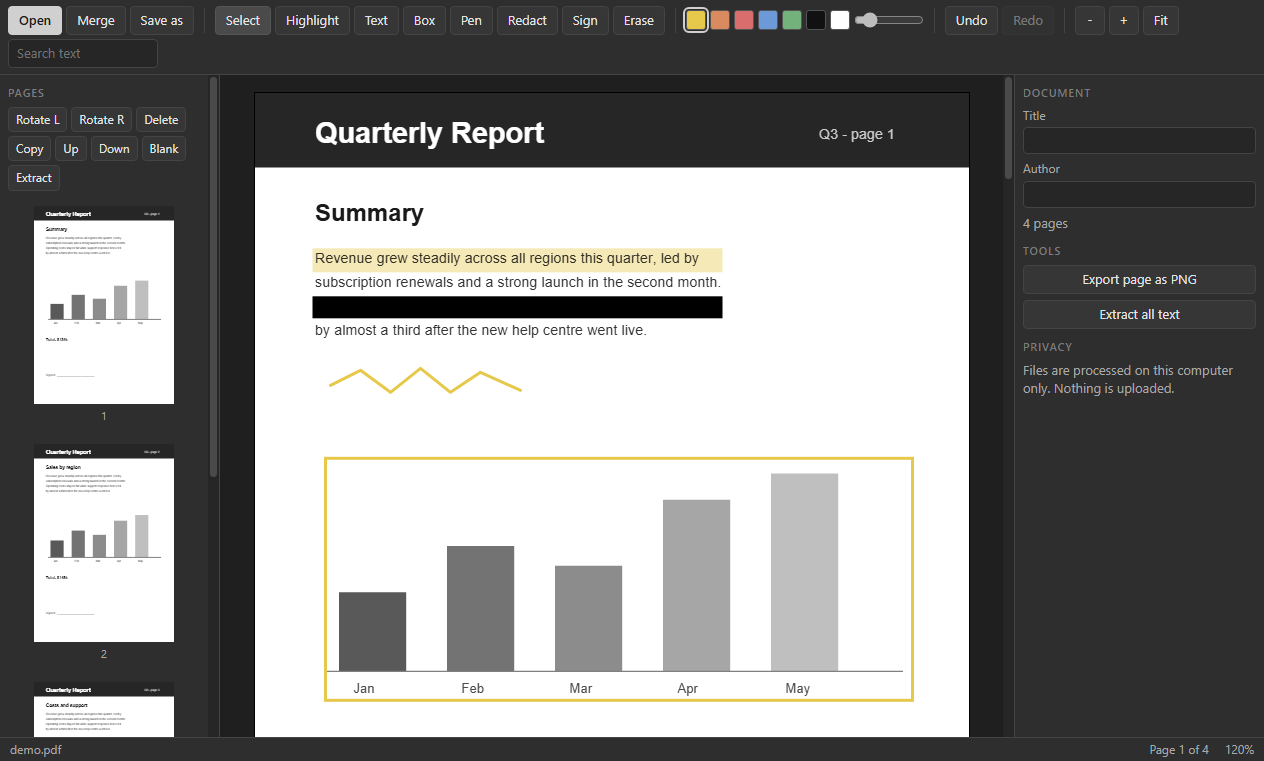
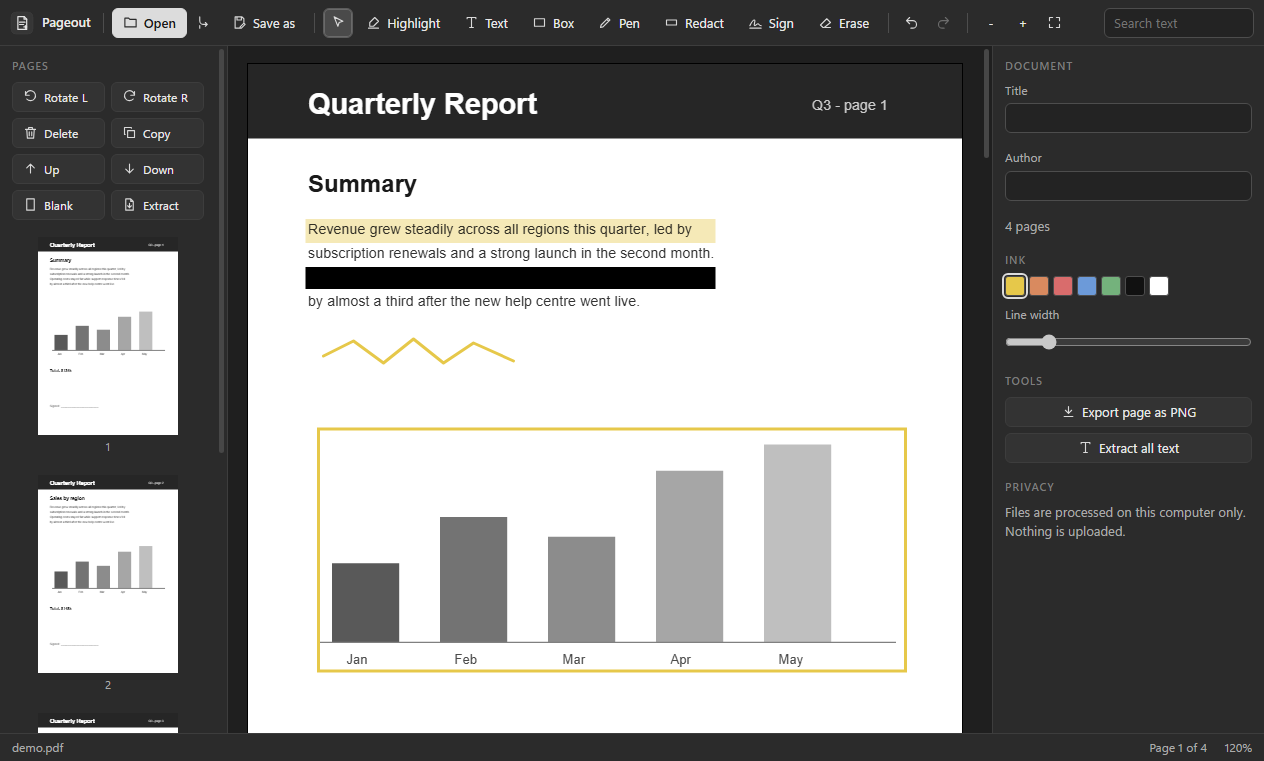
Pageout 1.0.2: refreshed interface
Refreshed interface: line icons on every toolbar button, the app mark in the top bar, consistent control sizes and spacing, tidier side panels, and a toolbar that adapts to smaller windows. Also includes layout fixes and a fuller guide on the project page.

diff --git a/renderer/lookout.css b/renderer/lookout.css
@@ -1,62 +1,119 @@
-/* Lookout gray UI kit: flat, no glow, no gradients, no hue. */
+/* Lookout gray UI kit v2: flat, calm, no hue. Shared by every Lookout app. */
 :root{
-  --bg:#262626; --bg-2:#2e2e2e; --bg-3:#363636; --line:#444; --line-2:#555;
-  --text:#e4e4e4; --text-2:#a8a8a8; --text-3:#7c7c7c;
-  --accent:#d0d0d0; --accent-ink:#1c1c1c; --focus:#9a9a9a;
-  --radius:4px; --font:"Segoe UI",system-ui,-apple-system,sans-serif; --mono:Consolas,"Cascadia Mono",monospace;
+  --bg:#232323; --bg-2:#2b2b2b; --bg-3:#333333; --bg-4:#3b3b3b; --stage:#1c1c1c;
+  --line:#3d3d3d; --line-2:#4d4d4d; --line-3:#5c5c5c;
+  --text:#e8e8e8; --text-2:#ababab; --text-3:#7d7d7d;
+  --accent:#dcdcdc; --accent-ink:#1b1b1b; --focus:#a0a0a0;
+  --radius:6px; --h:30px;
+  --font:"Segoe UI Variable Text","Segoe UI",system-ui,-apple-system,sans-serif; --mono:Consolas,"Cascadia Mono",monospace;
 }
 *{box-sizing:border-box;margin:0;padding:0}
 html,body{height:100%;background:var(--bg);color:var(--text);font:13px/1.45 var(--font);overflow:hidden;user-select:none;-webkit-font-smoothing:antialiased}
 button,input,select,textarea{font:inherit;color:inherit}
 .app{display:grid;grid-template-rows:auto 1fr auto;height:100vh}
-.toolbar{display:flex;align-items:center;gap:4px;padding:6px 8px;background:var(--bg-2);border-bottom:1px solid var(--line);flex-wrap:wrap}
-.toolbar .sep{width:1px;align-self:stretch;background:var(--line);margin:2px 6px}
-.toolbar .grow{flex:1}
-.btn{background:var(--bg-3);border:1px solid var(--line);border-radius:var(--radius);padding:4px 10px;cursor:pointer;white-space:nowrap}
-.btn:hover{background:#404040;border-color:var(--line-2)}
+
+/* ---------- toolbar ---------- */
+.toolbar{display:flex;align-items:center;gap:2px;padding:7px 10px;min-height:46px;background:var(--bg-2);border-bottom:1px solid var(--line);flex-wrap:nowrap;overflow-x:auto;overflow-y:hidden;scrollbar-width:none}
+.toolbar::-webkit-scrollbar{height:0}
+.toolbar>*{flex-shrink:0}
+.toolbar .sep{width:1px;height:20px;align-self:center;background:var(--line-2);margin:0 6px}
+.toolbar .grow{flex:1 1 auto;min-width:8px}
+.toolbar input[type=text],.toolbar input[type=search]{width:170px}
+.brand{display:flex;align-items:center;gap:8px;padding-right:6px;margin-right:4px;font-weight:600;font-size:13px;color:var(--text)}
+.brand img{width:24px;height:24px;border-radius:6px;display:block}
+.brand+.sep{margin-left:0}
+
+/* ---------- buttons ---------- */
+.btn{display:inline-flex;align-items:center;justify-content:center;gap:6px;height:var(--h);padding:0 10px;background:var(--bg-3);border:1px solid var(--line);border-radius:var(--radius);cursor:pointer;white-space:nowrap;line-height:1;transition:background .08s,border-color .08s}
+.btn:hover{background:var(--bg-4);border-color:var(--line-2)}
 .btn:active{background:#2a2a2a}
-.btn:focus-visible,input:focus-visible,select:focus-visible,textarea:focus-visible,[tabindex]:focus-visible{outline:1px solid var(--focus);outline-offset:1px}
+.btn:focus-visible,input:focus-visible,select:focus-visible,textarea:focus-visible,[tabindex]:focus-visible{outline:2px solid var(--focus);outline-offset:1px}
 .btn.primary{background:var(--accent);color:var(--accent-ink);border-color:var(--accent);font-weight:600}
-.btn.primary:hover{background:#e0e0e0}
-.btn.on{background:#4a4a4a;border-color:var(--line-2)}
-.btn[disabled]{opacity:.4;pointer-events:none}
-.btn.icon{padding:4px 8px;min-width:30px;text-align:center}
-input[type=text],input[type=number],input[type=search],select,textarea{background:var(--bg);border:1px solid var(--line);border-radius:var(--radius);padding:4px 8px;user-select:text}
-input[type=range]{accent-color:#bdbdbd}
-input[type=color]{border:1px solid var(--line);background:var(--bg);width:28px;height:24px;padding:1px;border-radius:var(--radius)}
-label.field{display:flex;flex-direction:column;gap:3px;color:var(--text-2);font-size:12px}
-.main{display:flex;min-height:0}
-.sidebar{width:220px;background:var(--bg-2);border-right:1px solid var(--line);overflow:auto;padding:8px;flex-shrink:0}
-.sidebar.right{border-right:0;border-left:1px solid var(--line);width:250px}
-.sidebar h3,.panel-title{font-size:11px;text-transform:uppercase;letter-spacing:.08em;color:var(--text-3);margin:10px 0 6px;font-weight:600}
+.btn.primary:hover{background:#ececec;border-color:#ececec}
+.btn.on{background:#4a4a4a;border-color:var(--line-3);box-shadow:inset 0 0 0 1px #6a6a6a}
+.btn[disabled]{opacity:.38;pointer-events:none}
+.btn.icon{padding:0;width:var(--h);min-width:var(--h)}
+.btn .ic{width:15px;height:15px;flex-shrink:0;display:block;opacity:.92}
+.toolbar .btn:not(.primary):not(.on){background:transparent;border-color:transparent}
+.toolbar .btn:not(.primary):not(.on):hover{background:var(--bg-4);border-color:var(--line-2)}
+
+.toolbar.c1 .btn.minor:not(.primary):has(> svg.ic),.toolbar.c2 .btn:not(.primary):has(> svg.ic),.toolbar.c3 .btn:has(> svg.ic){font-size:0;gap:0;width:var(--h);padding:0}
+.toolbar.c2 .brand span{display:none}
+.toolbar.c2 input[type=text],.toolbar.c2 input[type=search]{width:120px}
+
+/* ---------- fields ---------- */
+input[type=text],input[type=number],input[type=search],input[type=date],select,textarea{background:var(--bg);border:1px solid var(--line-2);border-radius:var(--radius);padding:0 9px;height:var(--h);user-select:text;min-width:0}
+textarea{height:auto;padding:7px 9px;resize:vertical;line-height:1.45}
+select{padding-right:6px;cursor:pointer}
+input:hover,select:hover,textarea:hover{border-color:var(--line-3)}
+input[type=range]{accent-color:#c8c8c8;height:var(--h)}
+input[type=checkbox]{accent-color:#c8c8c8;width:15px;height:15px;cursor:pointer}
+input[type=color]{border:1px solid var(--line-2);background:var(--bg);width:30px;height:var(--h);padding:2px;border-radius:var(--radius)}
+label.field{display:flex;flex-direction:column;gap:4px;color:var(--text-2);font-size:12px}
+label.field>input,label.field>select,label.field>textarea{width:100%;color:var(--text);font-size:13px}
+
+/* ---------- layout ---------- */
+.main{display:flex;min-height:0;min-width:0}
+.sidebar{width:228px;background:var(--bg-2);border-right:1px solid var(--line);overflow:auto;padding:10px 12px 14px;flex-shrink:0}
+.sidebar.right{border-right:0;border-left:1px solid var(--line);width:272px}
+.sidebar h3,.panel-title{font-size:11px;text-transform:uppercase;letter-spacing:.08em;color:var(--text-3);margin:16px 0 8px;font-weight:600}
 .sidebar h3:first-child{margin-top:2px}
-.stage{flex:1;min-width:0;min-height:0;position:relative;background:#1f1f1f;overflow:auto}
-.status{display:flex;gap:16px;align-items:center;padding:3px 10px;background:var(--bg-2);border-top:1px solid var(--line);color:var(--text-2);font-size:12px}
+.sidebar input[type=text],.sidebar input[type=search],.sidebar select,.sidebar textarea{width:100%}
+.sidebar .row{flex-wrap:wrap}
+.sidebar .row>.btn{flex:1 1 auto}
+.sidebar .row>label.field{flex:1 1 0;min-width:0}
+.sidebar label.field{margin-bottom:10px}
+.sidebar .btn{width:auto}
+.sidebar>.btn{width:100%;margin-bottom:6px}
+.stage{flex:1;min-width:0;min-height:0;position:relative;background:var(--stage);overflow:auto}
+.status{display:flex;gap:18px;align-items:center;height:28px;padding:0 12px;background:var(--bg-2);border-top:1px solid var(--line);color:var(--text-2);font-size:12px;white-space:nowrap;overflow:hidden}
 .status .grow{flex:1}
 .list{display:flex;flex-direction:column;gap:2px}
-.list .item{padding:5px 8px;border-radius:var(--radius);cursor:pointer;border:1px solid transparent;display:flex;gap:6px;align-items:center}
+.list .item{padding:6px 8px;border-radius:var(--radius);cursor:pointer;border:1px solid transparent;display:flex;gap:6px;align-items:center;min-height:30px}
 .list .item:hover{background:var(--bg-3)}
-.list .item.sel{background:#444;border-color:var(--line-2)}
+.list .item.sel{background:var(--bg-4);border-color:var(--line-2)}
 .row{display:flex;gap:6px;align-items:center}
+.grow{flex:1 1 auto;min-width:0}
+.brow{display:grid;grid-template-columns:1fr 1fr;gap:6px;margin-bottom:6px}
+.brow>.btn{justify-content:flex-start}
+.frow{display:flex;align-items:center;gap:8px;margin-bottom:8px;color:var(--text-2)}
+.frow>input[type=text],.frow>input[type=number]{flex:1;color:var(--text)}
+.frow>span:first-child{min-width:44px}
+.frow>select{flex:1;min-width:0}
+.sidebar input[type=range]{width:100%}
+.sidebar .swatches{margin-bottom:10px}
+.list .item .btn{height:24px!important;width:26px!important;padding:0!important;font-size:0!important;gap:0;background:transparent;border-color:transparent;opacity:.55}
+.list .item:hover .btn,.list .item.sel .btn{opacity:1}
+.list .item .btn:hover{background:var(--bg-4);border-color:var(--line-2)}
 .col{display:flex;flex-direction:column;gap:6px}
 .muted{color:var(--text-2)}
-.empty{position:absolute;inset:0;display:flex;flex-direction:column;align-items:center;justify-content:center;gap:10px;color:var(--text-3);text-align:center;padding:20px}
-.empty .big{font-size:18px;color:var(--text-2)}
-.modal-back{position:fixed;inset:0;background:rgba(0,0,0,.55);display:flex;align-items:center;justify-content:center;z-index:50}
-.modal{background:var(--bg-2);border:1px solid var(--line-2);border-radius:6px;min-width:340px;max-width:80vw;max-height:85vh;overflow:auto;padding:16px;display:flex;flex-direction:column;gap:12px}
-.modal h2{font-size:15px;font-weight:600}
-.toast{position:fixed;left:50%;bottom:34px;transform:translateX(-50%);background:var(--bg-3);border:1px solid var(--line-2);padding:7px 14px;border-radius:var(--radius);z-index:60}
-.progress{height:6px;background:var(--bg);border:1px solid var(--line);border-radius:3px;overflow:hidden}
-.progress>i{display:block;height:100%;background:var(--accent);width:0}
-table.grid{border-collapse:collapse;width:100%}
-table.grid th,table.grid td{border:1px solid var(--line);padding:4px 8px;text-align:left}
-table.grid th{background:var(--bg-2);color:var(--text-2);font-weight:600}
-::-webkit-scrollbar{width:11px;height:11px}
-::-webkit-scrollbar-thumb{background:#4a4a4a;border:2px solid var(--bg);border-radius:6px}
-::-webkit-scrollbar-track{background:var(--bg)}
-.swatches{display:flex;flex-wrap:wrap;gap:4px}
-.swatches button{width:22px;height:22px;border:1px solid var(--line-2);border-radius:3px;cursor:pointer;padding:0}
-.swatches button.on{outline:2px solid var(--accent);outline-offset:1px}
-.progress>div{display:block;height:100%;background:var(--accent)}
-table.grid tr.sel td{background:#3a3a3a}
+.empty{position:absolute;inset:0;display:flex;flex-direction:column;align-items:center;justify-content:center;gap:12px;color:var(--text-3);text-align:center;padding:24px}
+.empty .big{font-size:18px;color:var(--text-2);font-weight:600}
+
+/* ---------- overlays ---------- */
+.modal-back{position:fixed;inset:0;background:rgba(0,0,0,.6);display:flex;align-items:center;justify-content:center;z-index:50}
+.modal{background:var(--bg-2);border:1px solid var(--line-2);border-radius:10px;min-width:360px;max-width:80vw;max-height:85vh;overflow:auto;padding:20px;display:flex;flex-direction:column;gap:14px;box-shadow:0 18px 50px rgba(0,0,0,.5)}
+.modal h2{font-size:16px;font-weight:600}
+.toast{position:fixed;left:50%;bottom:40px;transform:translateX(-50%);background:var(--bg-4);border:1px solid var(--line-3);padding:9px 16px;border-radius:8px;z-index:60;box-shadow:0 8px 24px rgba(0,0,0,.4)}
+.progress{height:6px;background:var(--bg);border:1px solid var(--line);border-radius:4px;overflow:hidden}
+.progress>i,.progress>div{display:block;height:100%;background:var(--accent);width:0}
+
+/* ---------- tables ---------- */
+table.grid{border-collapse:separate;border-spacing:0;width:100%}
+table.grid th,table.grid td{border-bottom:1px solid var(--line);padding:0 12px;height:38px;text-align:left;vertical-align:middle}
+table.grid th{background:var(--bg-2);color:var(--text-2);font-weight:600;font-size:12px;position:sticky;top:0;z-index:1;height:34px}
+table.grid tbody tr:hover td{background:#262626}
+table.grid tr.sel td{background:#353535}
 table.grid tbody tr{cursor:default}
+table.grid td .btn{height:26px;margin-left:8px;vertical-align:middle}
+table.grid td{white-space:nowrap}
+
+/* ---------- misc ---------- */
+::-webkit-scrollbar{width:11px;height:11px}
+::-webkit-scrollbar-thumb{background:#474747;border:3px solid transparent;background-clip:padding-box;border-radius:8px}
+::-webkit-scrollbar-thumb:hover{background:#5a5a5a;background-clip:padding-box;border:3px solid transparent}
+::-webkit-scrollbar-track,::-webkit-scrollbar-corner{background:transparent}
+.swatches{display:flex;flex-wrap:wrap;gap:6px}
+.swatches button{width:24px;height:24px;border:1px solid var(--line-3);border-radius:5px;cursor:pointer;padding:0}
+.swatches button.on{outline:2px solid var(--accent);outline-offset:2px}
+kbd{font-family:var(--mono);font-size:11px;background:var(--bg-3);border:1px solid var(--line-2);border-bottom-width:2px;border-radius:4px;padding:0 5px}

diff --git a/renderer/kit.js b/renderer/kit.js
@@ -1,0 +1,137 @@
+// Lookout UI kit: adds the app mark to the toolbar and monochrome line icons to buttons.
+// Purely visual. Buttons keep their text, so nothing else changes.
+(function () {
+  'use strict';
+  const NS = 'http://www.w3.org/2000/svg';
+  const P = {
+    plus: 'M12 5v14M5 12h14',
+    file: 'M14 3H6v18h12V7zM14 3v4h4M12 11v6M9 14h6',
+    folder: 'M3 7V5h6l2 2h10v12H3z',
+    save: 'M5 3h11l3 3v15H5zM8 3v5h7V3M8 21v-7h8v7',
+    saveas: 'M5 3h11l3 3v6M5 3v18h7M8 3v5h7V3M15 21l6-6-2-2-6 6v2z',
+    undo: 'M9 14L4 9l5-5M4 9h10a6 6 0 010 12h-3',
+    redo: 'M15 14l5-5-5-5M20 9H10a6 6 0 000 12h3',
+    trash: 'M4 7h16M10 11v6M14 11v6M6 7l1 14h10l1-14M9 7V4h6v3',
+    copy: 'M9 9h11v11H9zM5 15H4V4h11v1',
+    paste: 'M9 4h6v3H9zM8 5H5v16h14V5h-3',
+    dup: 'M8 8h12v12H8zM4 16V4h12M14 11v6M11 14h6',
+    download: 'M12 4v11M7 10l5 5 5-5M5 20h14',
+    fit: 'M4 9V4h5M15 4h5v5M20 15v5h-5M9 20H4v-5',
+    play: 'M7 4l13 8-13 8z',
+    stop: 'M6 6h12v12H6z',
+    pause: 'M7 5h3v14H7zM14 5h3v14h-3z',
+    rec: 'M12 5a7 7 0 100 14 7 7 0 000-14z',
+    scissors: 'M6 9a3 3 0 100-6 3 3 0 000 6zM6 21a3 3 0 100-6 3 3 0 000 6zM8.2 7.8L20 19M8.2 16.2L20 5',
+    pointer: 'M5 3l14 7-6 2-2 6z',
+    hand: 'M8 13V6a1.5 1.5 0 013 0v5M11 11V4.5a1.5 1.5 0 013 0V11M14 11V6a1.5 1.5 0 013 0v8a7 7 0 01-7 7 6 6 0 01-5-3l-2.5-4.5a1.5 1.5 0 012.6-1.5L8 15',
+    connector: 'M5 19L19 5M13 5h6v6',
+    frame: 'M7 3v18M17 3v18M3 7h18M3 17h18',
+    rect: 'M4 6h16v12H4z',
+    ellipse: 'M12 5c4.4 0 8 3.1 8 7s-3.6 7-8 7-8-3.1-8-7 3.6-7 8-7z',
+    line: 'M5 19L19 5',
+    text: 'M5 6V4h14v2M12 4v16M9 20h6',
+    highlight: 'M14 4l6 6-8 8H6v-6zM4 21h16',
+    pen: 'M4 20l4-1 11-11-3-3L5 16zM14 7l3 3',
+    redact: 'M4 8h16v8H4z',
+    sign: 'M3 17c3-6 5-9 7-9 3 0-2 9 1 9 2 0 3-3 5-3s1 3 5 3M3 21h18',
+    eraser: 'M8 20l-4-4 10-10 6 6-10 8zM12 20h8',
+    search: 'M11 4a7 7 0 100 14 7 7 0 000-14zM16 16l5 5',
+    list: 'M9 6h11M9 12h11M9 18h11M4 6h.01M4 12h.01M4 18h.01',
+    child: 'M5 4v8a3 3 0 003 3h11M15 11l4 4-4 4',
+    sibling: 'M5 6h14M5 12h14M12 15v6M9 18h6',
+    collapse: 'M6 9l6 6 6-6',
+    expand: 'M7 14l5-5 5 5',
+    calendar: 'M4 6h16v14H4zM4 10h16M8 3v5M16 3v5',
+    diamond: 'M12 3l9 9-9 9-9-9z',
+    up: 'M12 19V5M6 11l6-6 6 6',
+    down: 'M12 5v14M6 13l6 6 6-6',
+    refresh: 'M20 11a8 8 0 10-2.3 5.7M20 4v7h-7',
+    check: 'M4 12l5 5L20 6',
+    convert: 'M4 8h13M13 4l4 4-4 4M20 16H7M11 12l-4 4 4 4',
+    eye: 'M2 12s4-7 10-7 10 7 10 7-4 7-10 7S2 12 2 12zM12 9a3 3 0 100 6 3 3 0 000-6z',
+    info: 'M12 3a9 9 0 100 18 9 9 0 000-18zM12 11v6M12 7.5h.01',
+    front: 'M8 8h12v12H8zM4 4h10v3M4 4v10h3',
+    back: 'M4 4h12v12H4zM20 8v12H8v-4',
+    merge: 'M6 3v6a6 6 0 006 6h6M15 12l3 3-3 3M6 21v-4',
+    rotl: 'M4 10a8 8 0 112 6M4 4v6h6',
+    rotr: 'M20 10a8 8 0 10-2 6M20 4v6h-6',
+    blank: 'M6 3h12v18H6z',
+    extract: 'M14 3H6v18h12V7zM14 3v4h4M12 10v7M9 14l3 3 3-3',
+    mic: 'M12 3a3 3 0 00-3 3v6a3 3 0 006 0V6a3 3 0 00-3-3zM6 11a6 6 0 0012 0M12 17v4',
+    clear: 'M6 6l12 12M18 6L6 18',
+    gaps: 'M3 6v12M21 6v12M7 12h10M10 9l-3 3 3 3M14 9l3 3-3 3',
+    title: 'M4 5h16v14H4zM8 9h8M12 9v7',
+    dashed: 'M4 12h3M10 12h4M17 12h3',
+    arrow: 'M4 12h15M14 7l5 5-5 5',
+    elbow: 'M4 6h8v12h8',
+    label: 'M3 12l6-7h12v14H9zM8 12h.01',
+    image: 'M4 5h16v14H4zM4 16l5-5 4 4 3-3 4 4M15 9h.01',
+    vector: 'M5 19L12 5l7 14M8 13h8M3 19h4M17 19h4',
+    table: 'M4 5h16v14H4zM4 10h16M4 15h16M10 5v14',
+    lock: 'M6 11h12v9H6zM8 11V8a4 4 0 018 0v3',
+    unlock: 'M6 11h12v9H6zM8 11V8a4 4 0 017.5-2',
+    eyeoff: 'M3 3l18 18M10.6 6.1A10 10 0 0112 6c6 0 10 6 10 6a17 17 0 01-3 3.6M6.6 6.6C3.8 8.3 2 12 2 12s4 7 10 7a9.7 9.7 0 004.4-1',
+  };
+  const MAP = {
+    'New': 'file', 'Open': 'folder', 'Open project': 'folder', 'Open file': 'folder', 'Save': 'save', 'Save project': 'save', 'Save as': 'saveas',
+    'Undo': 'undo', 'Redo': 'redo', 'Delete': 'trash', 'Delete clip': 'trash', 'Remove selected': 'trash', 'Copy': 'copy', 'Paste': 'paste', 'Duplicate': 'dup',
+    'Export PNG': 'image', 'Export SVG': 'vector', 'Export CSV': 'table', 'Export': 'download', 'Export page as PNG': 'download', 'Extract all text': 'text',
+    'Fit': 'fit', 'Play': 'play', 'Stop': 'stop', 'Pause': 'pause', 'Resume': 'play', 'Record': 'rec', 'Split': 'scissors', 'Split here': 'scissors',
+    'Select': 'pointer', 'Move': 'pointer', 'Hand': 'hand', 'Connector': 'connector', 'Frame': 'frame', 'Rectangle': 'rect', 'Box': 'rect', 'Ellipse': 'ellipse', 'Line': 'line', 'Text': 'text',
+    'Highlight': 'highlight', 'Pen': 'pen', 'Redact': 'redact', 'Sign': 'sign', 'Erase': 'eraser', 'Preview': 'eye', 'Outline': 'list',
+    'Add child': 'child', 'Add sibling': 'sibling', 'Edit': 'pen', 'Collapse': 'collapse', 'Expand all': 'expand', 'Today': 'calendar',
+    'Add task': 'plus', 'Add milestone': 'diamond', 'Move up': 'up', 'Move down': 'down', 'Up': 'up', 'Down': 'down',
+    'Import media': 'plus', 'Add files': 'plus', 'Output folder': 'folder', 'Convert all': 'convert', 'Clear finished': 'clear', 'Show': 'folder', 'Show in folder': 'folder',
+    'Check file': 'check', 'Repair to new file': 'download', 'Refresh sources': 'refresh', 'Start recording': 'rec', 'Stop and review': 'stop', 'New recording': 'rec',
+    'Check for updates': 'refresh', 'Info': 'info', 'Merge': 'merge', 'Rotate L': 'rotl', 'Rotate R': 'rotr', 'Blank': 'blank', 'Extract': 'extract',
+    'Front': 'front', 'Back': 'back', 'Close gaps': 'gaps', 'Title text': 'title', 'Dashed': 'dashed', 'Arrow on/off': 'arrow', 'Straight / Elbow': 'elbow', 'Edit label': 'label',
+    'Cut': 'scissors', 'Trim to selection': 'fit', 'Locate missing files': 'search',
+  };
+  const LMAP = { 'Hide': 'eye', 'Show': 'eyeoff', 'Lock': 'unlock', 'Unlock': 'lock' };
+  function icon(name) {
+    const s = document.createElementNS(NS, 'svg');
+    s.setAttribute('viewBox', '0 0 24 24'); s.setAttribute('class', 'ic'); s.setAttribute('aria-hidden', 'true');
+    s.setAttribute('fill', 'none'); s.setAttribute('stroke', 'currentColor'); s.setAttribute('stroke-width', '1.8');
+    s.setAttribute('stroke-linecap', 'round'); s.setAttribute('stroke-linejoin', 'round');
+    const p = document.createElementNS(NS, 'path'); p.setAttribute('d', P[name]); s.append(p);
+    return s;
+  }
+  function decorate(b) {
+    if (b.tagName !== 'BUTTON' || !b.classList.contains('btn')) return;
+    const label = (b.textContent || '').trim();
+    const name = (b.closest('.list') && LMAP[label]) || MAP[label];
+    const cur = b.querySelector(':scope > svg.ic');
+    if (cur && cur.dataset.for === label) return;
+    if (cur) cur.remove();
+    if (!name) return;
+    const s = icon(name); s.dataset.for = label; b.prepend(s);
+    if (!b.title) b.title = label;
+  }
+  function brand(bar) {
+    if (!bar || bar.querySelector(':scope > .brand') || (document.title && (bar.textContent || '').includes(document.title))) return;
+    const name = document.title || '';
+    const d = document.createElement('div'); d.className = 'brand';
+    const img = document.createElement('img'); img.src = 'brand.svg'; img.alt = '';
+    const t = document.createElement('span'); t.textContent = name;
+    d.append(img, t);
+    const sep = document.createElement('span'); sep.className = 'sep';
+    bar.prepend(d, sep);
+  }
+  const MINOR = new Set(['New', 'Open', 'Undo', 'Redo', 'Copy', 'Paste', 'Duplicate', 'Delete', 'Front', 'Back', 'Fit', 'Hand', 'Merge', 'Move up', 'Move down', 'Today', 'Cut', 'Dashed', 'Arrow on/off', 'Straight / Elbow', 'Edit label', 'Output folder', 'Remove selected', 'Clear finished', 'Refresh sources', 'Stop', 'Collapse', 'Expand all', 'Select', 'Move']);
+  function fitBar(bar) {
+    bar.classList.remove('c1', 'c2', 'c3');
+    bar.querySelectorAll(':scope > .btn').forEach((b) => b.classList.toggle('minor', MINOR.has((b.textContent || '').trim())));
+    for (const c of ['c1', 'c2', 'c3']) { if (bar.scrollWidth <= bar.clientWidth + 1) break; bar.classList.add(c); }
+  }
+  window.addEventListener('resize', () => { const bar = document.querySelector('.app > .toolbar'); if (bar) fitBar(bar); });
+  let queued = false;
+  function sweep() {
+    queued = false;
+    document.querySelectorAll('.btn').forEach(decorate);
+    const bar = document.querySelector('.app > .toolbar');
+    if (bar && bar.children.length) { brand(bar); fitBar(bar); }
+  }
+  const mo = new MutationObserver(() => { if (!queued) { queued = true; requestAnimationFrame(sweep); } });
+  function start() { mo.observe(document.body, { childList: true, subtree: true, characterData: true }); sweep(); }
+  if (document.readyState === 'loading') document.addEventListener('DOMContentLoaded', start); else start();
+})();

diff --git a/renderer/app.js b/renderer/app.js
@@ -61,8 +61,8 @@ const bUndo = btn('Undo', () => undo());
 const bRedo = btn('Redo', () => redo());
 const search = h('input', { type: 'search', placeholder: 'Search text', style: 'width:150px', onkeydown: (e) => { if (e.key === 'Enter') doSearch(search.value); } });
 const swatchBox = h('div', { class: 'swatches' }, SWATCH.map((c) => { const b = h('button', { style: `background:${c}`, title: c, onclick: () => { color = c; refreshSwatches(); if (selAnn) mutateSel((a) => { a.color = c; }); } }); b.dataset.c = c; return b; }));
-const sizeIn = h('input', { type: 'range', min: 1, max: 14, value: strokeW, title: 'Line width', style: 'width:70px', oninput: () => { strokeW = +sizeIn.value; if (selAnn) mutateSel((a) => { if (a.type === 'rect' || a.type === 'draw') a.w = strokeW; }); } });
-toolbar.append(bOpen, bMerge, bSave, h('span', { class: 'sep' }), ...TOOLS.map(([k, n]) => (toolBtns[k] = btn(n, () => setTool(k)))), h('span', { class: 'sep' }), swatchBox, sizeIn, h('span', { class: 'sep' }), bUndo, bRedo, h('span', { class: 'sep' }),
+const sizeIn = h('input', { type: 'range', min: 1, max: 14, value: strokeW, title: 'Line width', style: 'width:100%', oninput: () => { strokeW = +sizeIn.value; if (selAnn) mutateSel((a) => { if (a.type === 'rect' || a.type === 'draw') a.w = strokeW; }); } });
+toolbar.append(bOpen, bMerge, bSave, h('span', { class: 'sep' }), ...TOOLS.map(([k, n]) => (toolBtns[k] = btn(n, () => setTool(k)))), h('span', { class: 'sep' }), bUndo, bRedo, h('span', { class: 'sep' }),
   btn('-', () => setZoom(zoom / 1.15), 'icon'), btn('+', () => setZoom(zoom * 1.15), 'icon'), btn('Fit', () => fitWidth()), h('span', { class: 'grow' }), search);
 function refreshSwatches() { swatchBox.querySelectorAll('button').forEach((b) => b.classList.toggle('on', b.dataset.c === color)); }
 refreshSwatches();
@@ -437,6 +437,7 @@ async function renderRight() {
   const t = h('input', { type: 'text', value: meta.title, oninput: () => (meta.title = t.value) });
   const a = h('input', { type: 'text', value: meta.author, oninput: () => (meta.author = a.value) });
   right.append(h('div', { class: 'col' }, h('label', { class: 'field' }, 'Title', t), h('label', { class: 'field' }, 'Author', a), h('div', { class: 'muted', text: `${pages.length} pages` })));
+  right.append(h('h3', { text: 'Ink' }), swatchBox, h('label', { class: 'field', style: 'margin-top:10px' }, 'Line width', sizeIn));
   right.append(h('h3', { text: 'Tools' }), h('div', { class: 'col' }, btn('Export page as PNG', () => exportPng()), btn('Extract all text', () => extractText())));
   if (selAnn) {
     const p = pages.find((x) => x.id === selAnn.pageId); const an = p?.annots.find((x) => x.id === selAnn.annId);

diff --git a/renderer/app.css b/renderer/app.css
@@ -15,8 +15,8 @@
 .thumb.sel{background:#444;border-color:var(--line-2)}
 .thumb canvas{background:#fff;max-width:100%;display:block}
 .thumb span{font-size:11px;color:var(--text-2)}
-.ptools{display:flex;flex-wrap:wrap;gap:4px;margin-bottom:8px}
-.ptools .btn{padding:3px 7px;font-size:12px}
+.ptools{display:grid;grid-template-columns:1fr 1fr;gap:6px;margin-bottom:10px}
+.ptools .btn{justify-content:flex-start;font-size:12px}
 .hits .item{font-size:12px}
 .sigpad{background:#fff;border:1px solid var(--line-2);border-radius:4px;touch-action:none;cursor:crosshair}
 .swatches{display:flex;gap:4px}

diff --git a/renderer/index.html b/renderer/index.html
@@ -10,6 +10,7 @@
 </head>
 <body>
 <div class="app" id="app"></div>
+<script src="kit.js"></script>
 <script src="vendor/pdf-lib.min.js"></script>
 <script type="module" src="app.js"></script>
 </body>

diff --git a/README.md b/README.md
@@ -1,6 +1,6 @@
 <p align="center"><img src="screenshots/banner.png" alt="Pageout" width="100%"></p>
 
-<p align="center"><b>Read, annotate and sign PDFs</b><br>Version 1.0.1 for Windows · Free · Offline · No account</p>
+<p align="center"><b>Read, annotate and sign PDFs</b><br>Version 1.0.2 for Windows · Free · Offline · No account</p>
 
 <p align="center"><a href="https://github.com/plawanpawin-byte/pageout/releases/latest"><b>Download Pageout</b></a> · <a href="https://github.com/plawanpawin-byte/Lookout">All Lookout apps</a></p>
 
@@ -11,6 +11,12 @@ Pageout is a PDF reader and editor for Windows that works entirely on your compu
 **Made for:** People who handle PDFs every day: contracts to sign, reports to mark up, scans to tidy, documents to share without leaking private details.
 
 ![Pageout](screenshots/01-reading-a-pdf.png)
+
+**On this page:** [Screenshots](#see-it-in-action) · [Interface](#the-interface) · [Features](#everything-it-can-do) · [How to use it](#how-to-use-it) · [Shortcuts](#keyboard-shortcuts) · [Formats](#files-and-formats) · [Privacy](#private-by-design) · [Install](#install) · [Questions](#questions)
+
+## What is new in 1.0.2
+
+A refreshed interface: every toolbar button now has a clear line icon, the app's mark sits at the top left, controls share one height and spacing, panels line up in tidy grids, and the toolbar keeps every button reachable on smaller windows by switching less important buttons to icons.
 
 ## See it in action
 
@@ -43,6 +49,12 @@ One click scales the page to the window so long documents are comfortable to rea
 ![What you get out](screenshots/05-exported-page-image.png)
 
 The current page exported as a sharp PNG image, ready to drop into a slide, a message or another document.
+
+## The interface
+
+- **Top bar:** open, merge and save files, the markup tools (Select, Highlight, Text, Box, Pen, Redact, Sign, Erase), undo and redo, zoom, and text search.
+- **Left panel:** page buttons (rotate, delete, copy, move, blank, extract) above live thumbnails of every page.
+- **Right panel:** document title and author, ink colour and line width, export tools, and search results.
 
 ## Everything it can do
 
@@ -138,5 +150,15 @@ Not at the moment. Remove the password first with the tool that created the file
 ## About Lookout
 
 Pageout belongs to the **[Lookout](https://github.com/plawanpawin-byte/Lookout)** family: ten small, private Windows apps for documents and media, all with the same calm grey look and the same promise that your files stay yours. Install and update them together with the [Lookout launcher](https://github.com/plawanpawin-byte/lookout-launcher).
+
+- **[Chartout](https://github.com/plawanpawin-byte/chartout)**: flowcharts and diagrams
+- **[Branchout](https://github.com/plawanpawin-byte/branchout)**: mind maps and outlines
+- **[Planout](https://github.com/plawanpawin-byte/planout)**: plans and gantt timelines
+- **[Frameout](https://github.com/plawanpawin-byte/frameout)**: screen design and prototypes
+- **[Cutout](https://github.com/plawanpawin-byte/cutout)**: video editing on a timeline
+- **[Shiftout](https://github.com/plawanpawin-byte/shiftout)**: convert and compress media
+- **[Castout](https://github.com/plawanpawin-byte/castout)**: record your screen
+- **[Mendout](https://github.com/plawanpawin-byte/mendout)**: repair damaged media
+- **[Tuneout](https://github.com/plawanpawin-byte/tuneout)**: record and edit audio
 
 Released under the MIT License.
